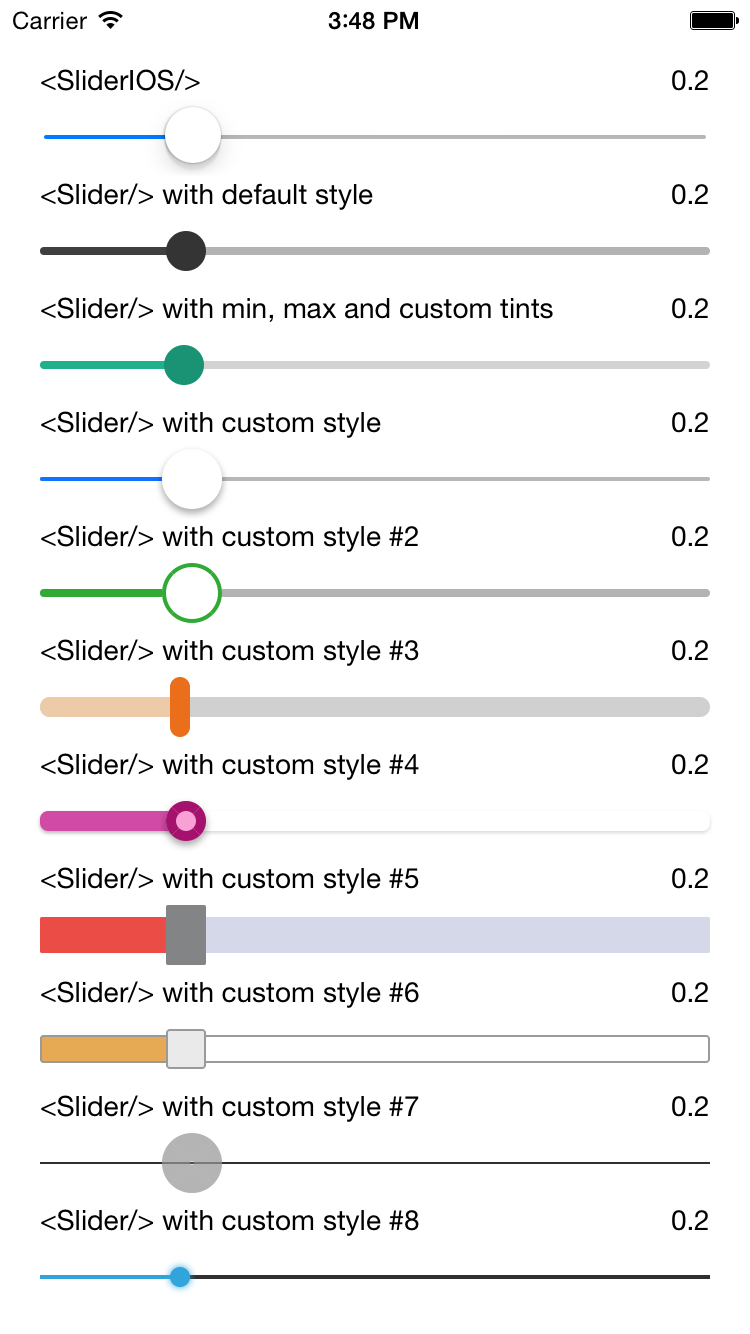
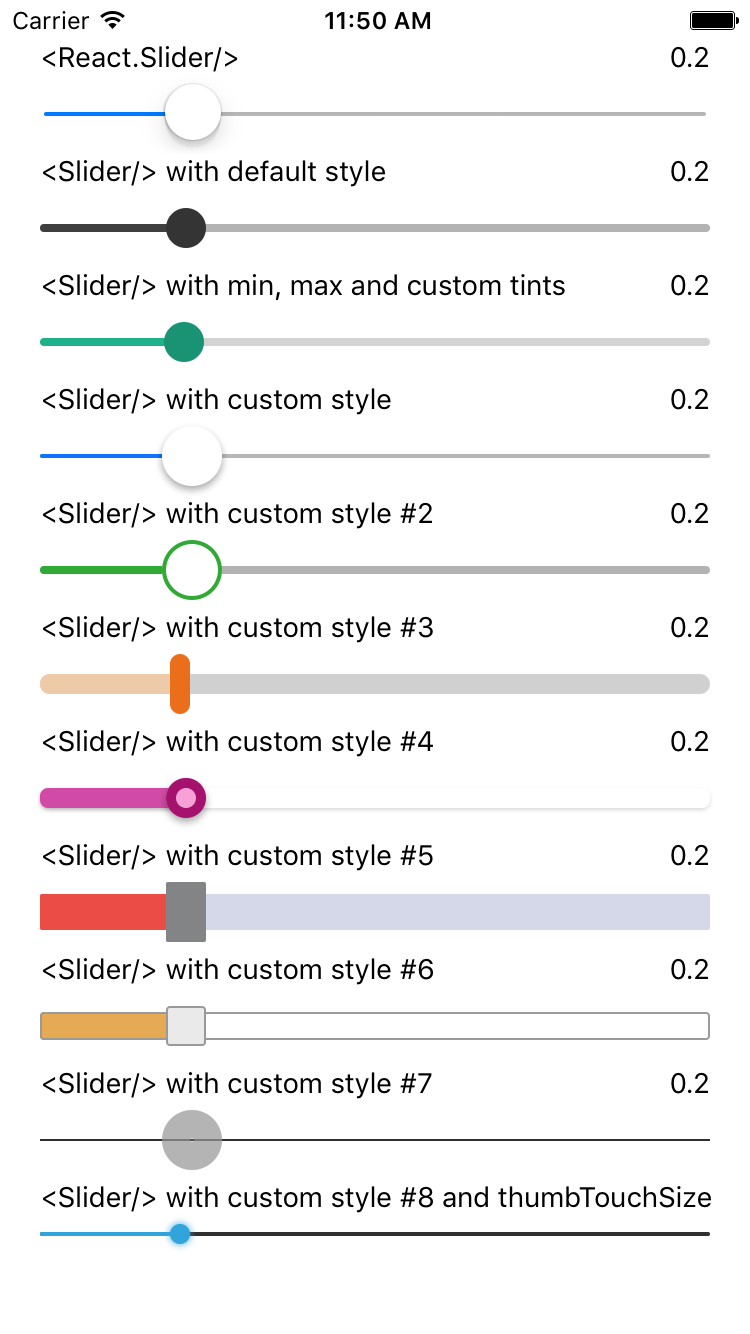
Updated README and screenshots

Changed region(s): [[0.0307, 0.0, 0.9507, 0.9835], [0.4293, 0.0, 0.5827, 0.0307]]

diff --git a/README.md b/README.md
@@ -8,9 +8,10 @@
 A pure JavaScript `<Slider>` component for react-native. This is still very much a work
 in progress, ideas and contributions are very welcome.
 
-![Demo](https://raw.githubusercontent.com/jeanregisser/react-native-slider/master/Screenshots/basic.png)
+<img src="https://raw.githubusercontent.com/jeanregisser/react-native-slider/master/Screenshots/basic@2x.png" width="375">
+<img src="https://raw.githubusercontent.com/jeanregisser/react-native-slider/master/Screenshots/basic_android_xxhdpi.png" width="360">
 
-It is a drop-in replacement for [SliderIOS](http://facebook.github.io/react-native/docs/sliderios.html).
+It is a drop-in replacement for [Slider](http://facebook.github.io/react-native/docs/slider.html).
 
 ## Install
 
